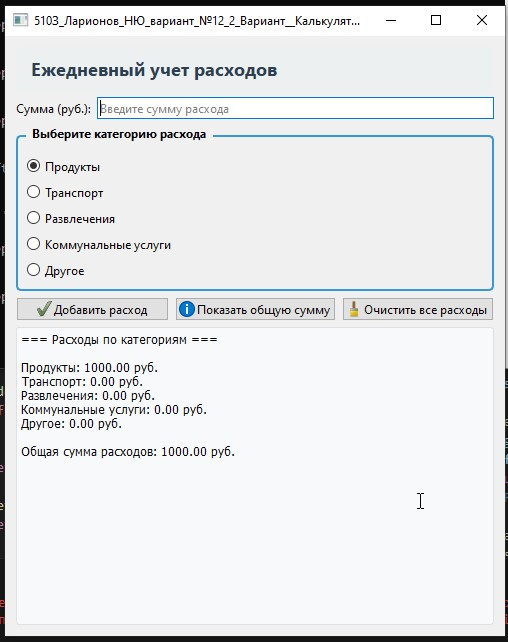
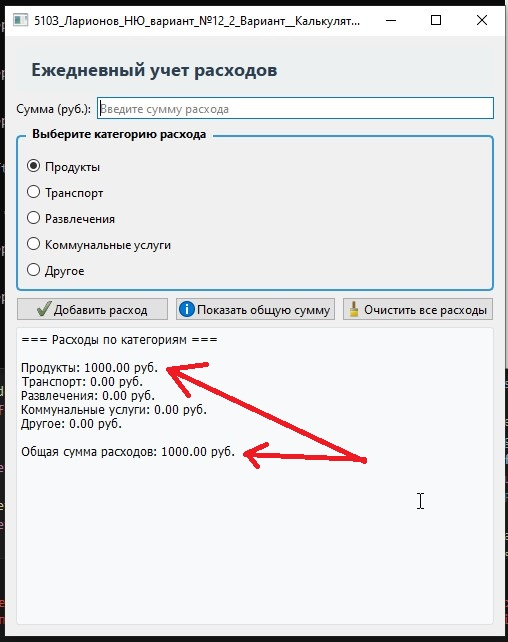
correct readme

Changed region(s): [[0.3248, 0.5607, 0.7087, 0.7477]]

diff --git a/README.md b/README.md
@@ -33,3 +33,17 @@
       <p align="center">Ввод данных для добавления товара</p>
    </p>
 </figure>
+
+<figure>
+   <p align="center">
+      <img src="https://github.com/dr-number/Lab3__PyQT_Event_Handlers_Signals-_Slots_Week_2_Assignment/blob/main/for_read_me/2-2_message_about_add.jpg">
+      <p align="center">Расход успешно добавлен</p>
+   </p>
+</figure>
+
+<figure>
+   <p align="center">
+      <img src="https://github.com/dr-number/Lab3__PyQT_Event_Handlers_Signals-_Slots_Week_2_Assignment/blob/main/for_read_me/2-3_phinish_add.jpg">
+      <p align="center">Новй расход успешно отражен в списке</p>
+   </p>
+</figure>
